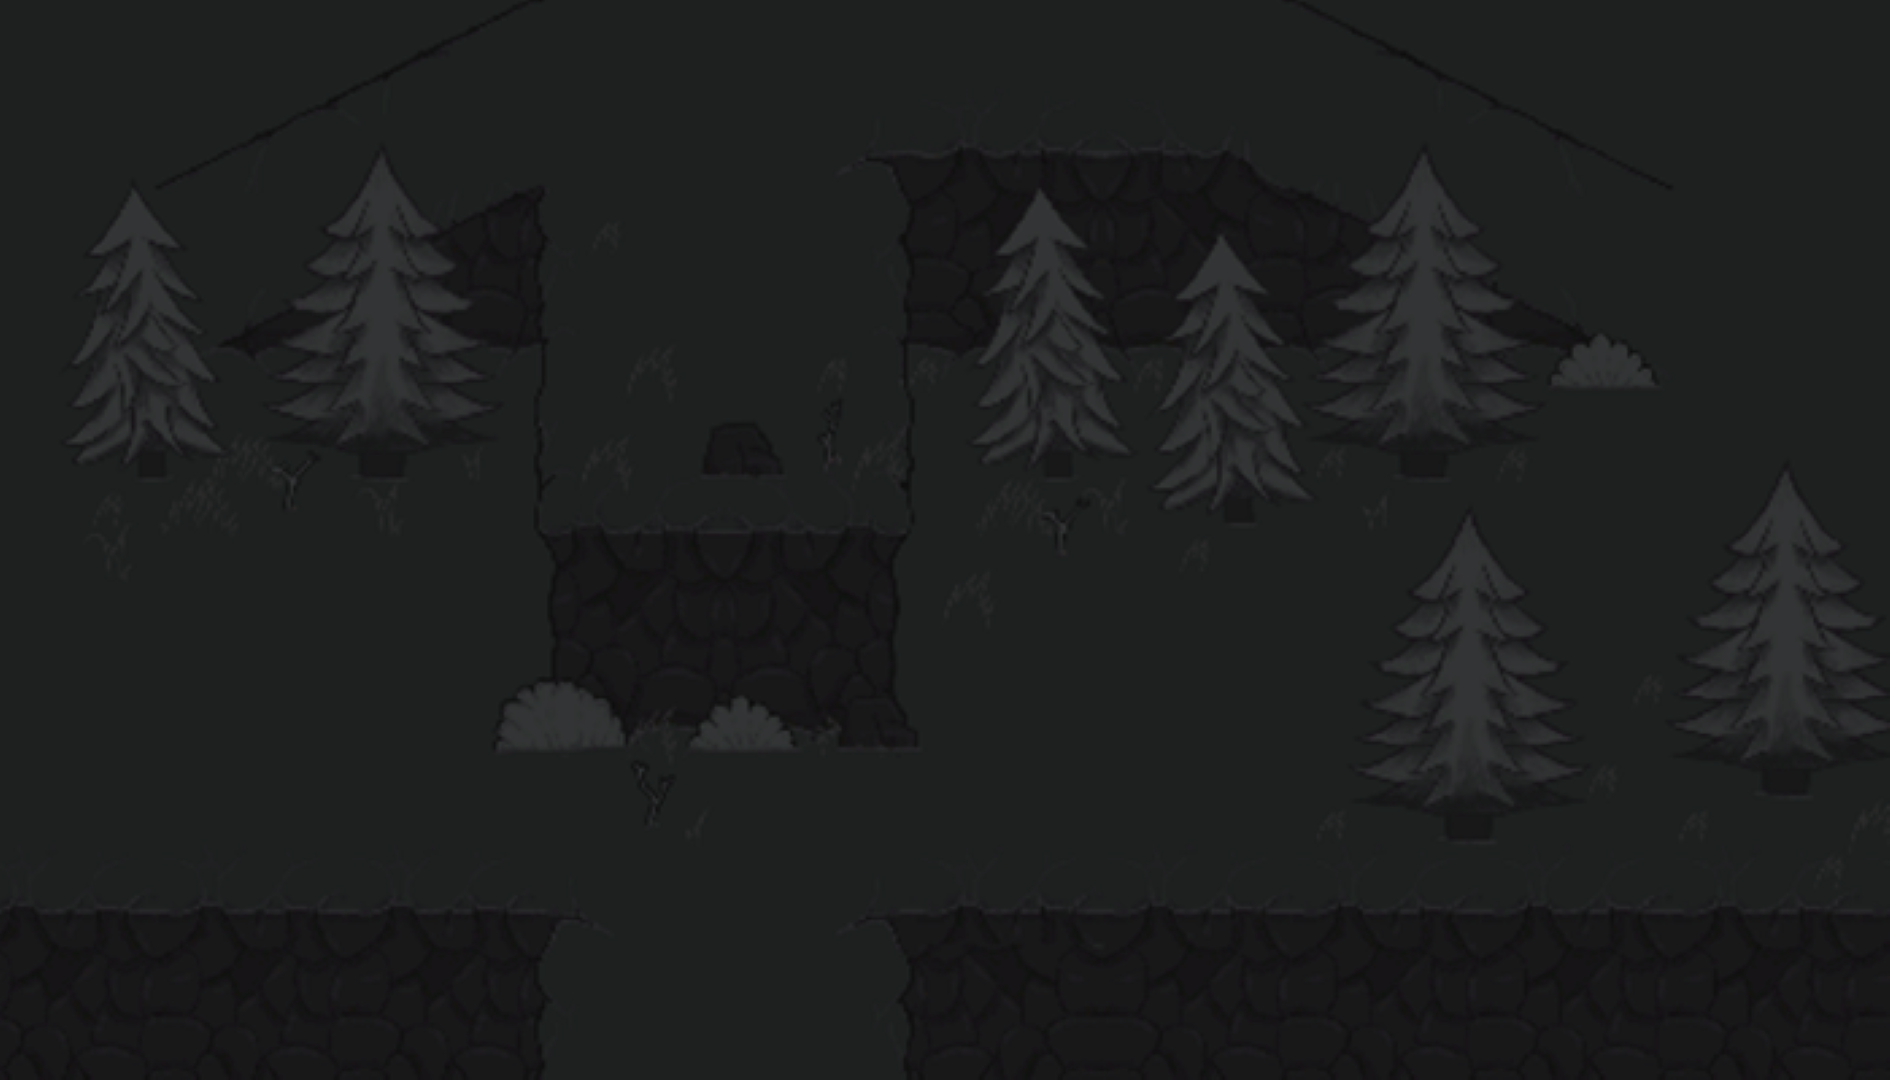
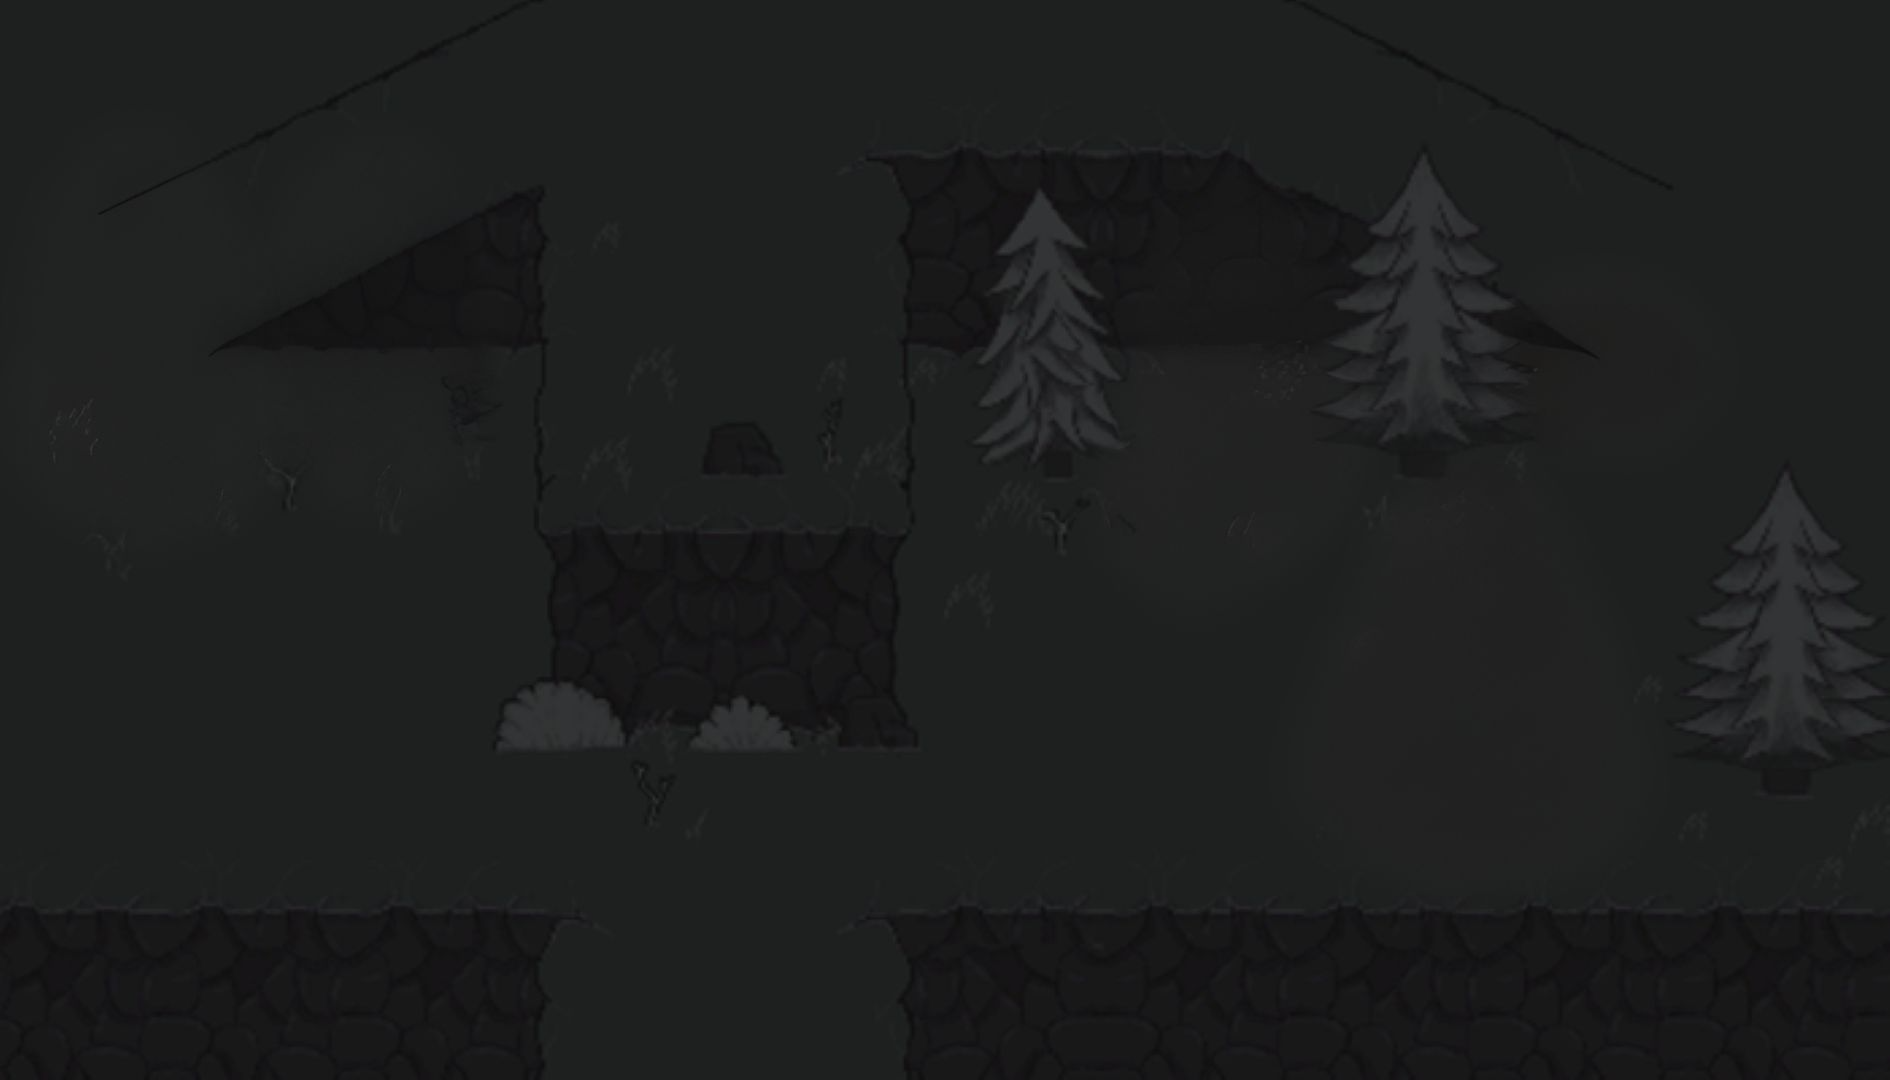
Projectiles and enemies added

Changed region(s): [[0.1561, 0.2139, 0.2497, 0.3361], [0.6243, 0.2139, 0.6868, 0.3361]]

diff --git a/main.py b/main.py
@@ -58,6 +58,20 @@ projectile_image = pygame.transform.scale(projectile_image, (40, 40))
 projectiles = []
 projectile_vel = 5
 
+# enemies - Riley
+enemies = []
+enemy_image = pygame.image.load('sprites/enemy.png').convert_alpha()
+enemy_image = pygame.transform.scale(enemy_image, (70, 70))
+enemy_vel = 3
+
+def create_enemy(pos_x, pos_y):
+    enemy_rect = pygame.Rect(pos_x, pos_y, 70, 70)
+    enemies.append({"rect": enemy_rect})
+
+create_enemy(70, 80)
+create_enemy(700, 300)
+create_enemy(1750, 80)
+
 # Camera class for scrolling - Alex
 ## Deadzone means the position in the center where we keep the player
 ### pos.x and pos.y are the world coordinates
@@ -172,14 +186,11 @@ def draw_tree_type2(tip_x, tip_y):
     collision_rects.append(pygame.Rect(tip_x - 20, tip_y + 330, 42, 2))
 
 # tree type 1 collisions
-draw_tree_type1(135, 188)
 draw_tree_type1(1222, 230)
 draw_tree_type1(1040, 183)
 
 # tree type 2 collisions
-draw_tree_type2(380, 146)
 draw_tree_type2(1425, 150)
-draw_tree_type2(1469, 510)
 draw_tree_type2(1785, 460)
 
 # Main loop
@@ -309,29 +320,54 @@ while running:
         pygame.draw.rect(render_surface, 'red', cam_rect, -1)
 
     to_remove = []
-    for proj in projectiles:
-        proj["rect"].centerx += proj["direction"].x
-        proj["rect"].centery += proj["direction"].y
+    moving = []
+    deads = []
+    for enemy in enemies:
+        enemy_screen_pos = camera.apply(pygame.Vector2(enemy["rect"].topleft))
+        render_surface.blit(enemy_image, enemy_screen_pos)
 
-        cam_proj = proj.copy()
-        cam_rect.topleft = camera.apply(pygame.Vector2(proj["rect"].topleft))
-        render_surface.blit(projectile_image, cam_rect.topleft)
+        enemy_pos = pygame.Vector2(enemy["rect"].center)
+        enemy_direction = player_pos - enemy_pos
+        distance = enemy_direction.length()
 
-        for rect in collision_rects:
-            if rect.colliderect(proj["rect"]):
+        if distance > 1 and distance < 300:
+            if distance > 1:
+                enemy_direction = enemy_direction.normalize() * enemy_vel
+
+            enemy["rect"].x += enemy_direction.x
+            enemy["rect"].y += enemy_direction.y
+
+        for proj in projectiles:
+            if proj["rect"].colliderect(enemy["rect"]):
+                deads.append(enemy)
+
+                if proj in projectiles:
+                    projectiles.remove(proj)
+
+        for dead in deads:
+            if dead in enemies:
+                enemies.remove(dead)
+
+        for proj in projectiles:
+            proj["rect"].centerx += proj["direction"].x
+            proj["rect"].centery += proj["direction"].y
+
+            cam_proj = proj.copy()
+            cam_rect.topleft = camera.apply(pygame.Vector2(proj["rect"].topleft))
+            render_surface.blit(projectile_image, cam_rect.topleft)
+
+            for rect in collision_rects:
+                if rect.colliderect(proj["rect"]):
+                    to_remove.append(proj)
+                    break
+
+            if proj["rect"].x < 0 or proj["rect"].x > info.current_w - 80 or proj["rect"].y < 0 or proj["rect"].y > info.current_h - 210:
                 to_remove.append(proj)
-                break
 
-        if proj["rect"].x < 0 or proj["rect"].x > info.current_w or proj["rect"].y < 0 or proj["rect"].y > info.current_h:
-<<<<<<< Updated upstream
-            to_remove.append(proj)
-=======
-            to_remove.append(proj["rect"])
->>>>>>> Stashed changes
+            for proj in to_remove:
+                if proj in projectiles:
+                    projectiles.remove(proj)
 
-        for proj in to_remove:
-            if proj in projectiles:
-                projectiles.remove(proj)
 
     # Scale render_surface to screen for zoom effect
     scaled_surface = pygame.transform.smoothscale(render_surface, (WINDOW_WIDTH, WINDOW_HEIGHT))
